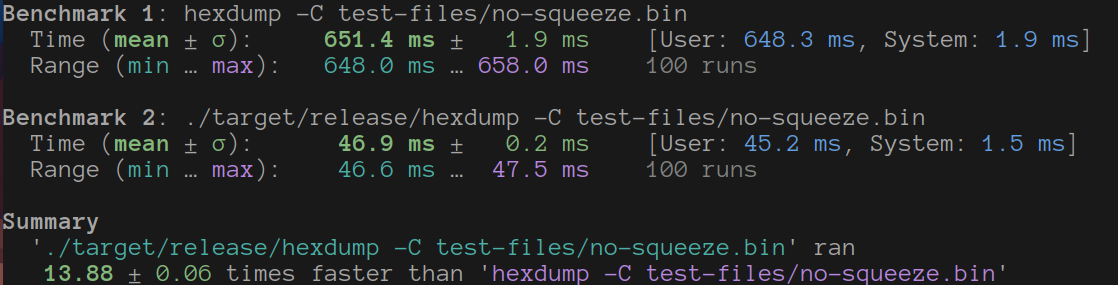
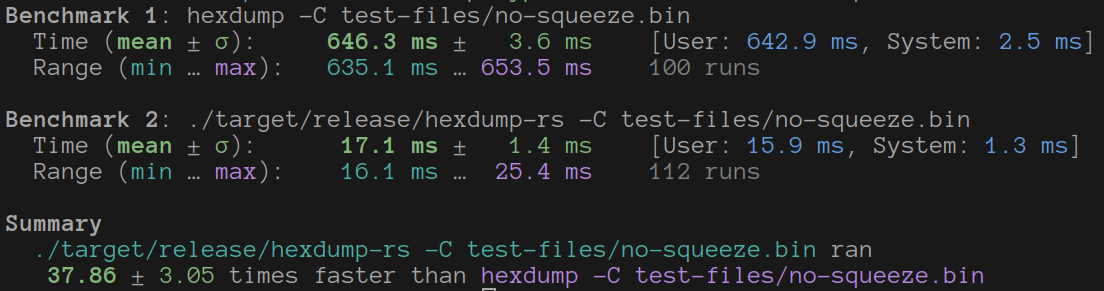
Mostly remove branching, but some other optimisations leading to a now ~40x speed difference

diff --git a/src/main.rs b/src/main.rs
@@ -18,9 +18,10 @@ fn render_ascii(w: &mut impl Write, bytes: &mut [u8]) -> io::Result<()> {
     let mut i = 0;
     while i < bytes.len() {
         let b = &mut bytes[i];
-        if !(b'!' <= *b && *b <= b'~') && *b != b' ' {
-            *b = INVALID_ASCII as u8;
-        }
+        *b = match b {
+            b'"'..=b'}' | b' ' => *b,
+            _ => INVALID_ASCII,
+        };
         i += 1;
     }
     w.write(bytes)?;
@@ -43,21 +44,17 @@ macro_rules! byte_to_arr {
 }
 
 /// Render `bytes` to the passed `Write` using their two-character hexadecimal repr
-fn render_bytes(w: &mut impl Write, bytes: &[u8], count: usize) {
-    let mut i = 0;
-
-    while i < bytes.len() {
-        let b = bytes[i];
-        if count > i {
-            w.write(&byte_to_arr!(b)).unwrap();
-        } else {
-            w.write(b"  ").unwrap();
-        }
-        if i != bytes.len() - 1 {
-            w.write(b" ").unwrap();
-        }
-        i += 1;
+fn render_bytes(w: &mut impl Write, bytes: &[u8], count: usize) -> io::Result<()> {
+    for b in bytes.iter().take(count) {
+        w.write(&byte_to_arr!(b))?;
+        w.write(b" ")?;
     }
+
+    if bytes.len() > count {
+        w.write(&b"   ".repeat(bytes.len() - count))?;
+    }
+
+    Ok(())
 }
 
 /// Skip n bytes before a reader
@@ -99,71 +96,71 @@ fn print_canonical(
 
     let mut bytes = [0u8; N];
     let mut i = skip_bytes(&mut read, skip)?;
-    let end = if length == usize::MAX {
-        None
-    } else {
-        Some(i + length)
-    };
-
+    let end = (i + length).max(usize::MAX);
     let mut b = [0u8; N];
     let mut read_count = read.read(&mut bytes)?;
 
-    // Whether the '*' char has been printed for the squeeze
-    let mut printed_squeeze = false;
-    // If we're actively suqeezing
-    let mut squeezing = false;
+    enum SqueezeStatus {
+        NotSqueezing,
+        NotYetPrintedSqueeze,
+        Squeezing,
+    }
 
-    // `00000000  00 00 00 00 00 00 00 00  00 00 00 00 00 00 00 00  |................|\n` = 79 B
-    let mut line = Vec::with_capacity(79);
+    let mut squeeze_status = SqueezeStatus::NotSqueezing;
+
+    //  v---10---vv----------------------3N----------------------vv---------21--------v
+    // `00000000  00 00 00 00 00 00 00 00  00 00 00 00 00 00 00 00  |................|\n`
+    let mut line = Vec::with_capacity(10 + N * 3 + 21);
+
     while read_count != 0 {
-        if let Some(end) = end {
-            if read_count + i > end {
-                read_count = end - i;
-            }
+        if read_count + i > end {
+            read_count = end - i;
         }
+
         if squeeze {
             b = *&bytes;
         }
-        //b.copy_from_slice(&bytes);
-        if !squeezing {
+
+        if matches!(squeeze_status, SqueezeStatus::NotSqueezing) {
             line.clear();
-            printed_squeeze = false;
             hex(&mut line, i)?;
             line.write(b"  ")?;
-            render_bytes(&mut line, &bytes[..8], read_count);
-            line.write(b"  ")?;
+            render_bytes(&mut line, &bytes[..8], read_count)?;
+            line.write(b" ")?;
             render_bytes(
                 &mut line,
                 &bytes[8..],
-                (read_count as isize - 8).max(0) as usize,
-            );
-            line.write(b"  |")?;
+                if read_count < 8 { 0 } else { read_count },
+            )?;
+            line.write(b" |")?;
 
             render_ascii(&mut line, &mut bytes[..read_count])?;
             line.write(b"|\n")?;
             out.write(&line)?;
         }
-        assert_eq!(line.capacity(), 79);
+        debug_assert_eq!(line.capacity(), 79);
         i += read_count;
-        if let Some(end) = end {
-            if i >= end {
-                break;
-            }
+        if i >= end {
+            break;
         }
 
         read_count = read.read(&mut bytes)?;
         if read_count == N && bytes == b && squeeze {
-            if !printed_squeeze {
-                out.write(b"*\n")?;
-                printed_squeeze = true;
-            }
-            squeezing = true;
+            squeeze_status = match squeeze_status {
+                SqueezeStatus::NotSqueezing => SqueezeStatus::NotYetPrintedSqueeze,
+                SqueezeStatus::NotYetPrintedSqueeze => {
+                    out.write(b"*\n")?;
+                    SqueezeStatus::Squeezing
+                }
+                SqueezeStatus::Squeezing => squeeze_status,
+            };
         } else {
-            squeezing = false;
+            squeeze_status = SqueezeStatus::NotSqueezing;
         }
     }
 
-    writeln!(out, "{:08x?}", i)?;
+    hex(out, i)?;
+    out.write(&[b'\n'])?;
     Ok(())
 }
 

diff --git a/README.md b/README.md
@@ -4,6 +4,9 @@
 
 A rewrite of `hexdump` in Rust, which offers up to a 14x speedup
 
+Test with 10M from `/dev/random` file:
+![Speed test with hyperfine on dev-random](./img/dev-random.png)
+
 Test with a (semi) random 7.8M file:
 ![Speed test with hyperfine on test.mca](./img/test.mca.png)
 
